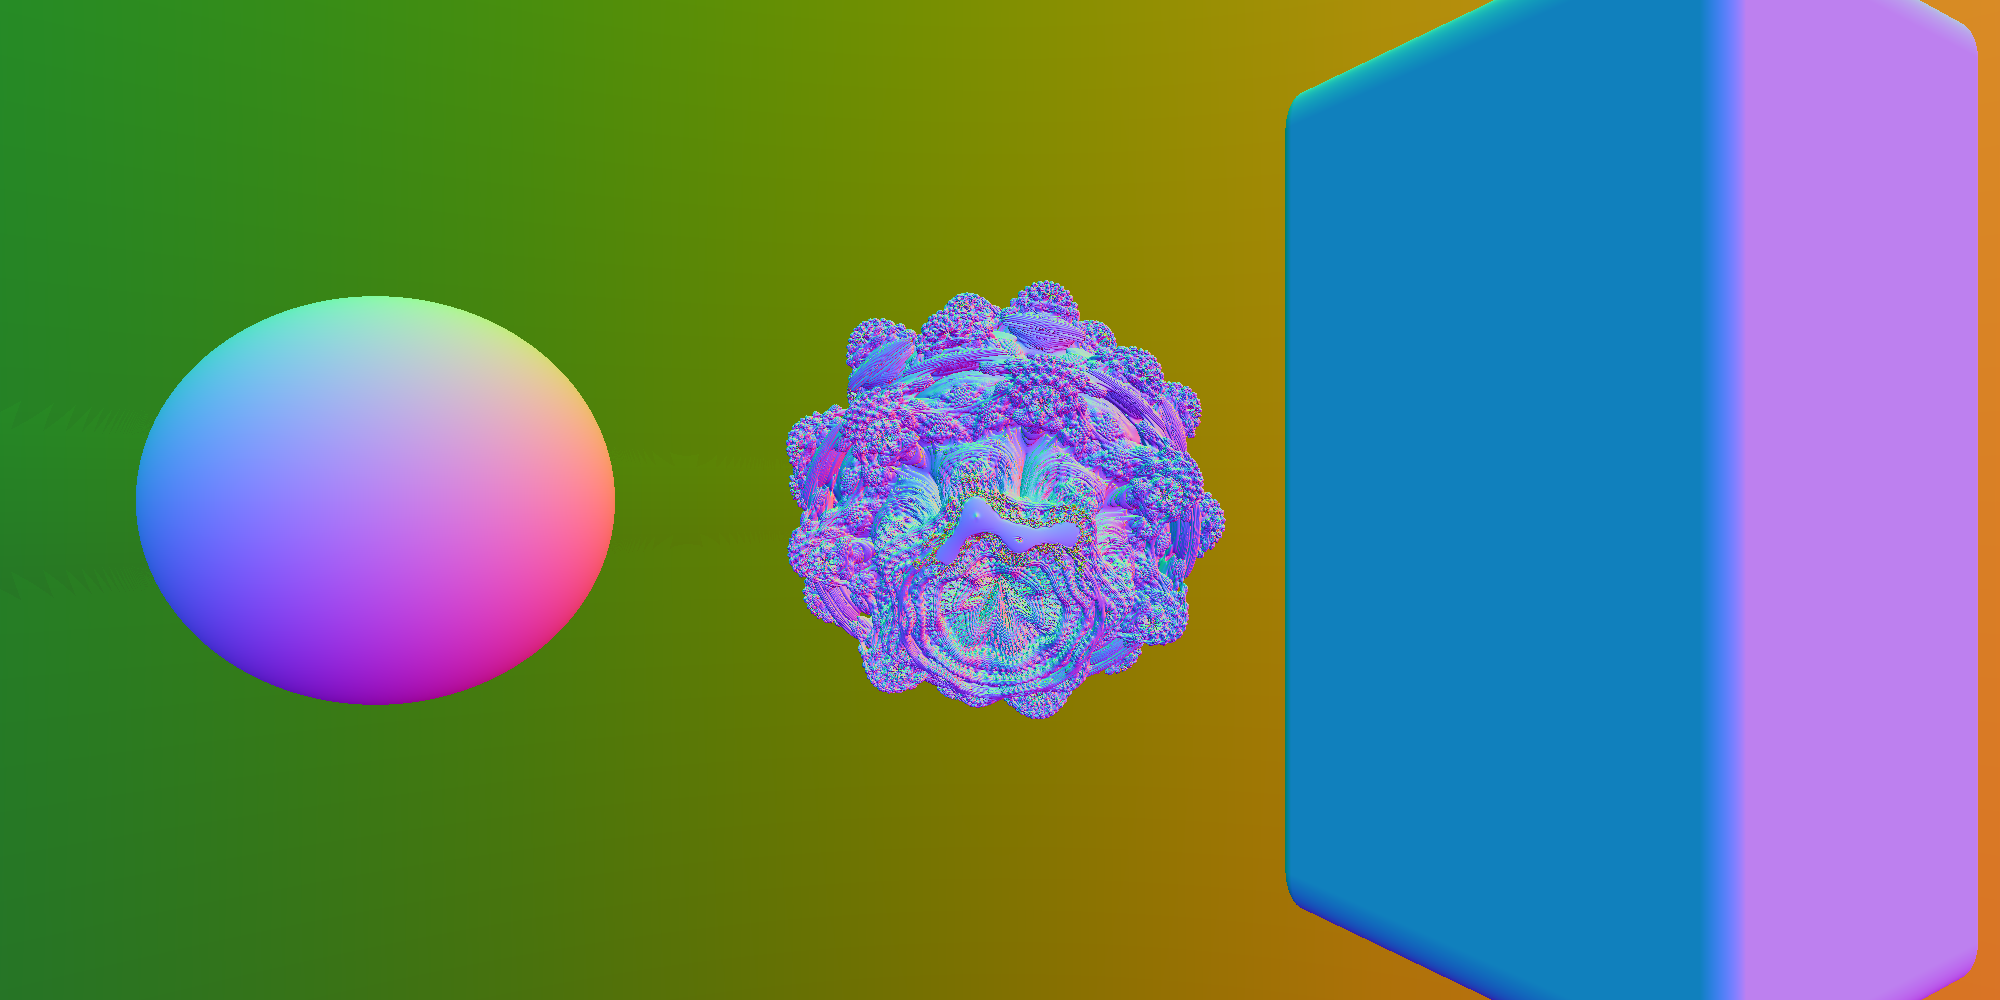
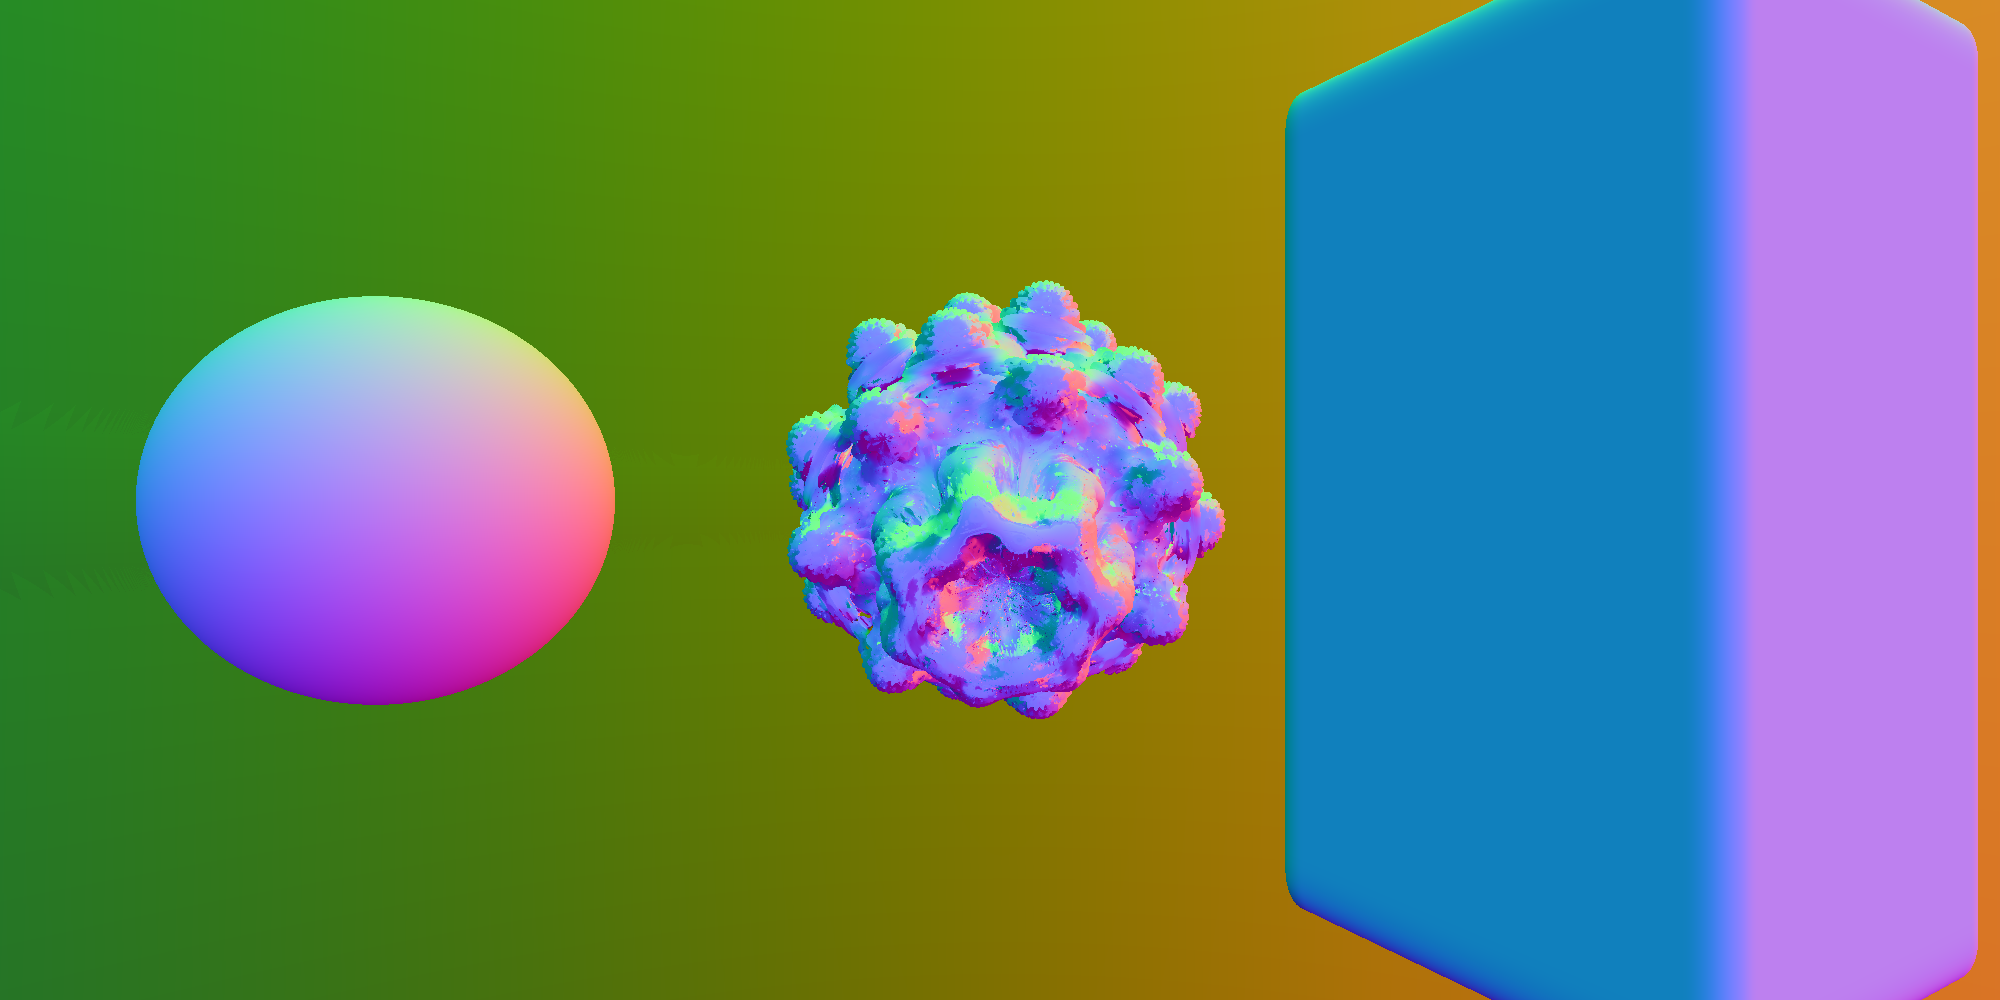
wesh c stylé avec les normals à 0.1

Changed region(s): [[0.372, 0.279, 0.62, 0.713]]

diff --git a/src/scene.rs b/src/scene.rs
@@ -398,16 +398,20 @@ impl Scene {
     }
 
     pub fn get_normals(&self, point: Vec3) -> Vec3 {
-        const EPS: f64 = 0.001;
-        let x = Vec3::new(EPS, 0.0, 0.0);
-        let y = Vec3::new(0.0, EPS, 0.0);
-        let z = Vec3::new(0.0, 0.0, EPS);
+        const EPS: f64 = 0.1;
+        let px = Vec3::new(EPS, 0.0, 0.0);
+        let py = Vec3::new(0.0, EPS, 0.0);
+        let pz = Vec3::new(0.0, 0.0, EPS);
+        let nx = Vec3::new(-EPS, 0.0, 0.0);
+        let ny = Vec3::new(0.0, -EPS, 0.0);
+        let nz = Vec3::new(0.0, 0.0, -EPS);
 
-        let dx = self.distance(point + x) - self.distance(point - x);
-        let dy = self.distance(point + y) - self.distance(point - y);
-        let dz = self.distance(point + z) - self.distance(point - z);
-
-        Vec3::new(dx, dy, dz).normalize()
+        return Vec3::new(
+            self.distance_and_colour(point + px).0 - self.distance_and_colour(point + nx).0,
+            self.distance_and_colour(point + py).0 - self.distance_and_colour(point + ny).0,
+            self.distance_and_colour(point + pz).0 - self.distance_and_colour(point + nz).0,
+        )
+        .normalize();
     }
 
     pub fn render(&self, width: u32, height: u32) -> Render {
